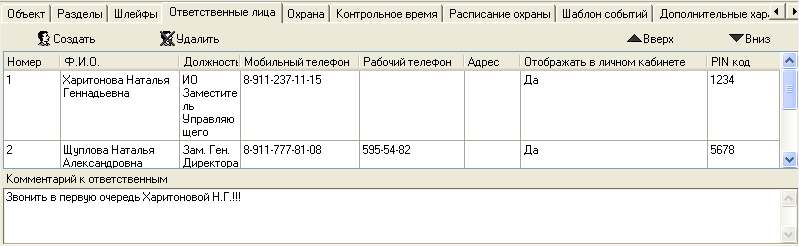
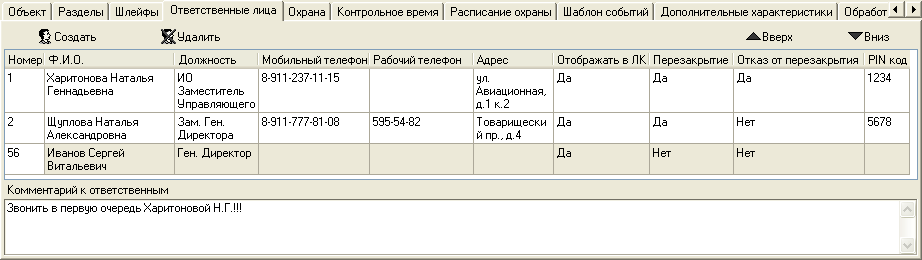
Перезакрытие и отказ от перезакрытия на вкладке "Ответственные лица" в модуле "Менеджер объектов"

diff --git a/russian/05-object-manager.md b/russian/05-object-manager.md
@@ -231,6 +231,10 @@
 
 При заданном значении «Да» в поле «Отображать в личном кабинете» ответственное лицо будет отображаться в списке ответственных лиц в приложении «Личный кабинет».
 
+Настроить автоматическое оповещение ответственного лица о необходимости перезакрытия объекта можно с помощью поля «Перезакрытие». При заданном значении «Да» ответственный будет получать SMS-сообщение с информацией об объекте, который нужно вскрыть, осмотреть и повторно сдать под охрану после устранения причин срабатывания тревожной сигнализации.
+
+Для того чтобы ответственное лицо получало SMS-сообщение с информацией об ответственном, отказавшемся от выезда на перезакрытие объекта, нужно задать значение «Да» в поле «Отказ от перезакрытия».
+
 В поле «PIN код» можно изменить PIN код ответственного лица для проверки КТС, а также для подтверждения снятия или постановки объекта на охрану (при запросе PIN кода). Если до его изменения PIN коды всех ответственных лиц объекта были одинаковы, появится окно с вопросом о необходимости изменения ПИН-кода для всех ответственных лиц объекта.
 
 Поле «Комментарий к ответственным» предназначено для добавления дополнительной информации об ответственных лицах объекта. При необходимости данное поле можно скрыть.
